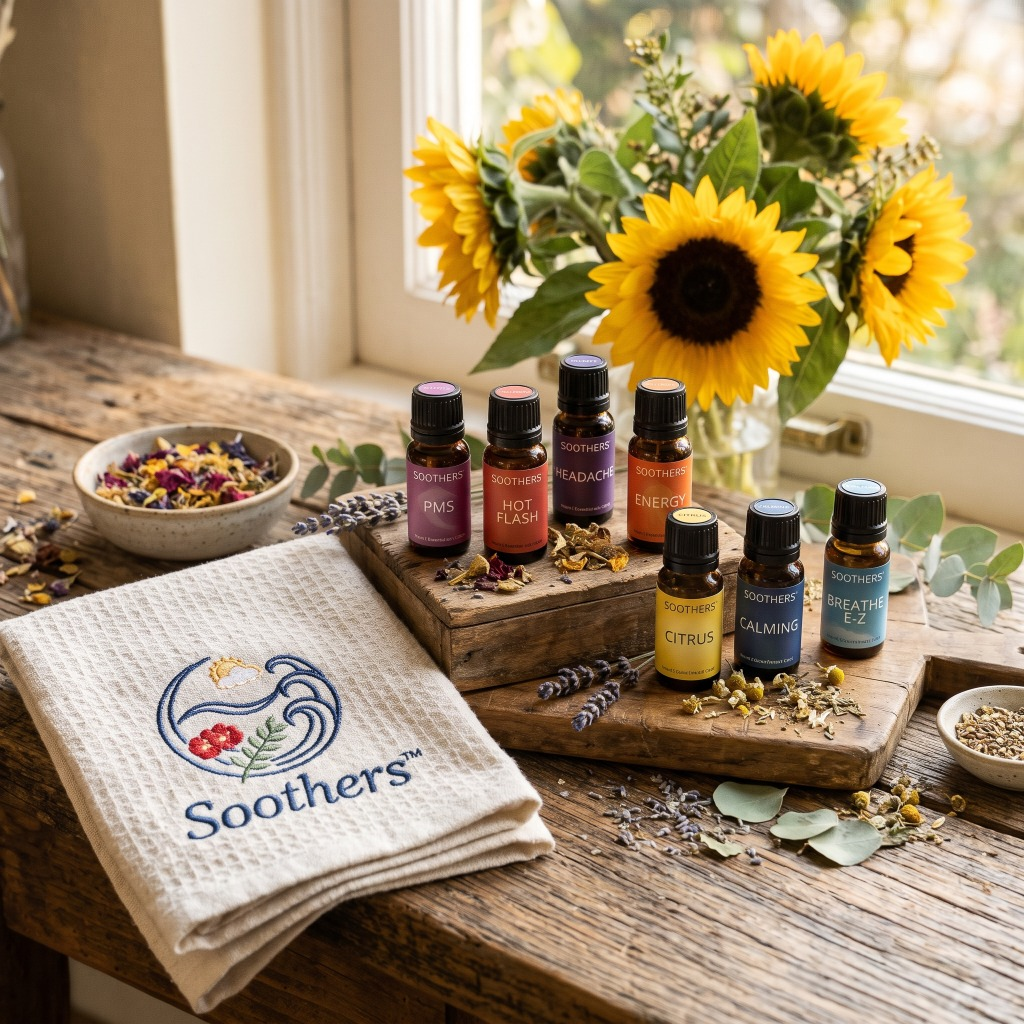
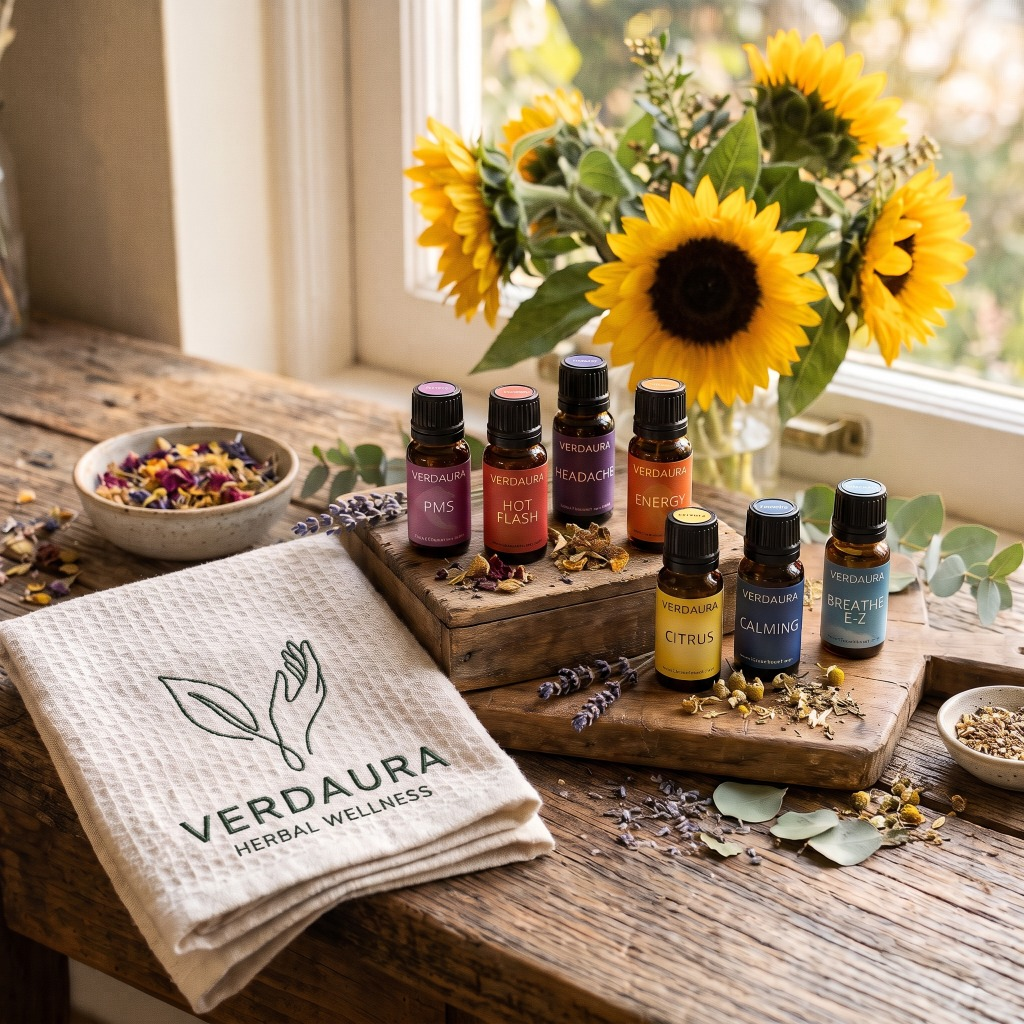
feat: update Authentic Heritage & Craftsmanship section with new founder Elena Hawthorne, origin story, and sunflower artisan image

diff --git a/src/data/verdauraData.ts b/src/data/verdauraData.ts
@@ -3,7 +3,7 @@ import { ProductItem, ServiceItem, FAQItem } from '../types/verdaura';
 export const BUSINESS_INFO = {
   name: 'Verdaura',
   tagline: 'Herbal Wellness & Botanical Remedies',
-  founder: 'Twink Conklin',
+  founder: 'Elena Hawthorne',
   location: 'Littleton, Colorado, USA',
   phone: '(303) 788-1614',
   phoneHref: 'tel:3037881614',
@@ -173,7 +173,7 @@ export const FEATURED_PRODUCTS: ProductItem[] = [
     },
     category: 'diffuser-oils',
     shortDescription: 'Deeply tranquil floral and herbal bouquet crafted to release daily stress, promote restful sleep, and create serene peace.',
-    fullDescription: 'Twink Conklin’s beloved calming formulation designed for peaceful evenings and restful sleep. Diffuse in the bedroom 30 minutes before sleep or indulge in a calming bedtime soak to quiet the mind and relax the nervous system.',
+    fullDescription: 'Elena Hawthorne’s beloved calming formulation designed for peaceful evenings and restful sleep. Diffuse in the bedroom 30 minutes before sleep or indulge in a calming bedtime soak to quiet the mind and relax the nervous system.',
     image: '/images/calming-diffuser-oil.jpg',
     badge: 'Serene Rest',
     isFeatured: true,
@@ -289,7 +289,7 @@ export const FEATURED_PRODUCTS: ProductItem[] = [
     name: 'Verdaura Herbal Oil (Concentrated Infusion)',
     category: 'herbals',
     shortDescription: 'Whole botanical herbs steeped in therapeutic carrier oils for concentrated topical nourishment.',
-    fullDescription: 'Handcrafted in Twink Conklin’s test kitchen, this concentrated herbal infusion contains whole-plant botanicals gently matured in nourishing oils. Designed to soothe tired muscles, calm surface tension, and deliver deep botanical nourishment.',
+    fullDescription: 'Handcrafted in Elena Hawthorne’s test kitchen, this concentrated herbal infusion contains whole-plant botanicals gently matured in nourishing oils. Designed to soothe tired muscles, calm surface tension, and deliver deep botanical nourishment.',
     image: '/images/herbal-oil.jpg',
     badge: 'Whole Plant Extract',
     isFeatured: false,
@@ -409,7 +409,7 @@ export const FEATURED_PRODUCTS: ProductItem[] = [
     sizes: [
       { label: 'Complete 12-Vial Discovery Box', price: '$85.00', volume: 'Full Kit' },
     ],
-    keyBenefits: ['12 pure therapeutic 1/2-dram essential oils', '2 rich carrier oils for custom recipe blending', 'Laminated recipe formulation chart by Twink Conklin', 'Sturdy portable wooden travel box'],
+    keyBenefits: ['12 pure therapeutic 1/2-dram essential oils', '2 rich carrier oils for custom recipe blending', 'Laminated recipe formulation chart by Elena Hawthorne', 'Sturdy portable wooden travel box'],
     botanicalDetails: {
       extractionMethod: 'Therapeutic Grade Distillations',
       origin: 'Littleton, Colorado Test Kitchen',
@@ -456,7 +456,7 @@ export const SERVICES: ServiceItem[] = [
     id: 'aromatherapy-consultation',
     title: 'Aromatherapy Consultation & Custom Formulation',
     price: '$65.00',
-    description: 'A comprehensive one-on-one session with certified aromatherapist Twink Conklin. We identify the essential oils that emotionally and physically support your well-being, crafting a formulation made specifically for your body chemistry.',
+    description: 'A comprehensive one-on-one session with certified aromatherapist Elena Hawthorne. We identify the essential oils that emotionally and physically support your well-being, crafting a formulation made specifically for your body chemistry.',
     highlights: ['Personalized scent and emotional profiling', 'Custom formulated blend crafted on-site', 'Safety, dilution, and daily application guidance', 'Allergies and sensitivity accommodations'],
     badge: 'Most Popular',
   },
@@ -509,7 +509,7 @@ export const SERVICES: ServiceItem[] = [
     id: 'iridology-muscle-testing',
     title: 'Iridology Analysis & Muscle Testing',
     price: 'By Appointment',
-    description: 'As a Certified Iridologist (Universal School of Medicine for Natural Living), Twink analyzes configurations and colors in the iris alongside muscle response testing to design individualized herbal and aromatherapy regimens.',
+    description: 'As a Certified Iridologist (Universal School of Medicine for Natural Living), Elena analyzes configurations and colors in the iris alongside muscle response testing to design individualized herbal and aromatherapy regimens.',
     highlights: ['Iris micro-structural analysis', 'Biocompatibility muscle testing', 'Custom botanical recommendations'],
     badge: 'Specialized Discipline',
   },
@@ -520,13 +520,13 @@ export const FAQS: FAQItem[] = [
     id: 'faq-1',
     category: 'Consultations',
     question: 'How do free consultations work?',
-    answer: 'Consultations at Verdaura are offered free of charge by appointment. We discuss your unique health objectives, preferences, and lifestyle so Twink Conklin can suggest the ideal herbal tincture, cream blend, or custom aromatherapy formulation. Please call us at (303) 788-1614 to schedule.',
+    answer: 'Consultations at Verdaura are offered free of charge by appointment. We discuss your unique health objectives, preferences, and lifestyle so Elena Hawthorne can suggest the ideal herbal tincture, cream blend, or custom aromatherapy formulation. Please call us at (303) 788-1614 to schedule.',
   },
   {
     id: 'faq-2',
     category: 'Products',
     question: 'Can you formulate a custom remedy blend for specific allergies?',
-    answer: 'Yes! Twink frequently customizes formulations for clients with specific sensitivities. For instance, if you are allergic to aloe vera or certain citrus oils, we formulate your cream or oil blend using alternative soothing botanicals like shea butter, jojoba, or green tea extracts.',
+    answer: 'Yes! Elena frequently customizes formulations for clients with specific sensitivities. For instance, if you are allergic to aloe vera or certain citrus oils, we formulate your cream or oil blend using alternative soothing botanicals like shea butter, jojoba, or green tea extracts.',
   },
   {
     id: 'faq-3',
@@ -538,7 +538,7 @@ export const FAQS: FAQItem[] = [
     id: 'faq-4',
     category: 'Products',
     question: 'Can I use Bach Flower Essences alongside an herbal tincture regimen?',
-    answer: 'Yes, they complement each other wonderfully. Dr. Edward Bach flower remedies focus on emotional equilibrium and inner balance, while herbal tinctures provide physical botanical support. Twink utilizes muscle testing during sessions to ensure both regimens work harmoniously together.',
+    answer: 'Yes, they complement each other wonderfully. Dr. Edward Bach flower remedies focus on emotional equilibrium and inner balance, while herbal tinctures provide physical botanical support. Elena utilizes muscle testing during sessions to ensure both regimens work harmoniously together.',
   },
   {
     id: 'faq-5',

diff --git a/src/components/home/PhilosophyStory.tsx b/src/components/home/PhilosophyStory.tsx
@@ -18,7 +18,7 @@ export const PhilosophyStory: React.FC = () => {
               <div className="relative rounded-3xl overflow-hidden border border-sand-300 shadow-botanical-lg bg-white">
                 <img
                   src="/images/verdaura-remedies-sunflowers.jpg"
-                  alt="Verdaura handcrafted remedy oils, embroidered brand cloth, and sunflowers in Littleton test kitchen"
+                  alt="Verdaura handcrafted botanical remedies, embroidered linen cloth, and sunflowers in Littleton artisan studio"
                   className="w-full h-[320px] sm:h-[360px] lg:h-[390px] xl:h-[430px] object-cover object-center"
                   loading="lazy"
                 />
@@ -30,10 +30,10 @@ export const PhilosophyStory: React.FC = () => {
                     </div>
                     <div>
                       <span className="font-serif text-sm sm:text-base font-bold text-forest-950 block leading-tight">
-                        Twink Conklin
+                        Elena Hawthorne
                       </span>
                       <span className="text-[10.5px] sm:text-[11px] text-olive-800 font-medium leading-tight block pt-0.5">
-                        5th-Generation Coloradan • Certified Iridologist &amp; Aromatherapist
+                        Founder &amp; Master Herbalist • Clinical Aromatherapist
                       </span>
                     </div>
                   </div>
@@ -52,31 +52,31 @@ export const PhilosophyStory: React.FC = () => {
                 Authentic Heritage &amp; Craftsmanship
               </span>
               <h2 className="font-serif font-bold text-forest-950 tracking-tight text-2xl sm:text-3xl lg:text-[28px] xl:text-[34px] leading-tight">
-                Born From Healing, Handcrafted in Littleton
+                Born From Botanical Wisdom, Handcrafted in Littleton
               </h2>
             </div>
 
             {/* Narrative Body */}
             <div className="space-y-2 text-xs sm:text-[13px] lg:text-[13.5px] xl:text-sm text-charcoal-700 leading-relaxed font-normal">
               <p>
-                Twink Conklin is a fifth-generation native of Colorado, rooted in a family tradition of care and craftsmanship. After graduating as a licensed cosmetologist in 1977 and directing salon operations for over 36 years, Twink faced a pivotal challenge in 1993 when a persistent staph infection failed conventional treatments for five years.
+                Elena Hawthorne grew up surrounded by high-altitude wildflowers along the Colorado foothills, learning the ancient language of plants from her grandmother, an herbalist and gardener. Fascinated by how earth-grown remedies could gently restore balance to the nervous system and skin, Elena pursued clinical botanical medicine and natural distillation, dedicating over two decades to studying pure plant energetics and organic whole-herb extractions.
               </p>
               <p>
-                Her breakthrough came through natural medicine. Inspired by this recovery, Twink dedicated her career to natural health disciplines starting in 1995—earning certification as an <strong>Iridologist</strong> through the Universal School of Medicine for Natural Living, and studying professional Herbology and Aromatherapy.
+                After witnessing how synthetic fragrances, petroleum bases, and mass-market additives overwhelmed delicate bodies, Elena retreated to her Littleton sunroom studio. Beside blooming sunflowers, organic lavender, and wild chamomile, she began hand-crafting small-batch botanical elixirs, testing every concentrated tincture and cold-pressed oil with uncompromising standards.
               </p>
               <p>
-                She developed every Verdaura formula right in her own test kitchen. First shared with her personal iridology clients, the results were so profound that clients urged her to make them available to everyone seeking natural remedies.
+                What began as custom comforting blends for neighbors experiencing stubborn tension, sleep difficulties, and hormonal fatigue quickly grew through word of mouth. Clients reported profound relief from the very first drop, inspiring Elena to found Verdaura: an artisan botanical sanctuary where pure plant wisdom, clean science, and gentle human care unite.
               </p>
             </div>
 
             {/* Editorial Quote Card */}
             <blockquote className="p-4 sm:p-4.5 rounded-2xl bg-white border-l-[5px] border-sunflower-500 border-y border-r border-sand-200 shadow-sm space-y-2">
               <p className="font-serif font-medium sm:font-semibold text-sm sm:text-base lg:text-[16px] text-forest-950 leading-snug tracking-tight">
-                &ldquo;Everything is formulated with natural ingredients in concentrated formulas. We test them on ourselves first. Verdaura was founded with the objective of helping those who choose the natural means to good health.&rdquo;
+                &ldquo;Nature never rushes, yet nothing is left unhealed. At Verdaura, we take the purest essences of the earth and blend them with reverent care—delivering concentrated relief that honors your body, mind, and spirit.&rdquo;
               </p>
               <footer className="text-xs sm:text-[12px] font-bold text-olive-900 uppercase tracking-wider flex items-center gap-2 pt-0.5">
                 <span className="w-5 h-0.5 bg-sunflower-500 rounded-full inline-block" />
-                <span>Twink Conklin, Founder of Verdaura</span>
+                <span>Elena Hawthorne, Founder of Verdaura</span>
               </footer>
             </blockquote>
 

diff --git a/src/pages/ProductDetailPage.tsx b/src/pages/ProductDetailPage.tsx
@@ -66,7 +66,7 @@ export const ProductDetailPage: React.FC = () => {
             Botanical Formulation Not Found
           </h1>
           <p className="text-charcoal-600 max-w-md mx-auto text-sm sm:text-base leading-relaxed">
-            The formulation you are looking for may have been archived or seasonal. Twink Conklin can hand-craft a special custom blend tailored to your wellness needs.
+            The formulation you are looking for may have been archived or seasonal. Elena Hawthorne can hand-craft a special custom blend tailored to your wellness needs.
           </p>
           <div className="flex flex-wrap items-center justify-center gap-4 pt-4">
             <Link
@@ -228,7 +228,7 @@ export const ProductDetailPage: React.FC = () => {
                 </div>
                 <div className="p-3 rounded-2xl bg-white border border-sand-200 text-center space-y-1">
                   <ShieldCheck className="w-5 h-5 text-forest-600 mx-auto" />
-                  <p className="font-semibold text-xs text-forest-950">Twink Conklin</p>
+                  <p className="font-semibold text-xs text-forest-950">Elena Hawthorne</p>
                   <p className="text-[10px] text-charcoal-500">Certified Formulation</p>
                 </div>
                 <div className="p-3 rounded-2xl bg-white border border-sand-200 text-center space-y-1">
@@ -429,7 +429,7 @@ export const ProductDetailPage: React.FC = () => {
                         : 'border-transparent text-charcoal-500 hover:text-forest-900'
                     }`}
                   >
-                    Twink Conklin Notes
+                    Elena Hawthorne Notes
                   </button>
                   <button
                     type="button"
@@ -513,7 +513,7 @@ export const ProductDetailPage: React.FC = () => {
                         TC
                       </div>
                       <div className="space-y-1 text-xs sm:text-sm text-charcoal-700 leading-relaxed">
-                        <p className="font-bold text-forest-950">Twink Conklin, Certified Aromatherapist</p>
+                        <p className="font-bold text-forest-950">Elena Hawthorne, Certified Aromatherapist</p>
                         <p>
                           &ldquo;Every bottle is blended by hand right here in Littleton. We never rush the maturation cycle of whole-plant extracts, ensuring the energetic and chemical balance remains uncompromised.&rdquo;
                         </p>
@@ -556,7 +556,7 @@ export const ProductDetailPage: React.FC = () => {
                 Require a Custom Blend for Personal Sensitivities?
               </h2>
               <p className="text-xs sm:text-sm text-sand-300/90 leading-relaxed">
-                If you have heightened allergies or require adjustments to carrier oils (e.g. substituting almond oil for coconut or jojoba), Twink Conklin hand-formulates custom blends by appointment.
+                If you have heightened allergies or require adjustments to carrier oils (e.g. substituting almond oil for coconut or jojoba), Elena Hawthorne hand-formulates custom blends by appointment.
               </p>
             </div>
 
@@ -681,7 +681,7 @@ export const ProductDetailPage: React.FC = () => {
                 <CheckCircle2 className="w-12 h-12 text-olive-600 mx-auto" />
                 <h3 className="font-serif text-2xl font-bold text-forest-950">Inquiry Received</h3>
                 <p className="text-xs sm:text-sm text-charcoal-600">
-                  Thank you! Twink Conklin will review your requested formulation for personal sensitivities and contact you within 24 business hours.
+                  Thank you! Elena Hawthorne will review your requested formulation for personal sensitivities and contact you within 24 business hours.
                 </p>
               </div>
             ) : (

diff --git a/src/pages/ProductsPage.tsx b/src/pages/ProductsPage.tsx
@@ -156,7 +156,7 @@ export const ProductsPage: React.FC = () => {
             <div className="p-12 text-center bg-white rounded-3xl border border-sand-200 my-8 space-y-4">
               <p className="font-serif text-2xl font-bold text-forest-950">No Formulations Found</p>
               <p className="text-xs sm:text-sm text-charcoal-600 max-w-md mx-auto">
-                No products match &ldquo;{searchQuery}&rdquo;. Twink Conklin can hand-craft a special custom blend tailored to your specific wellness needs.
+                No products match &ldquo;{searchQuery}&rdquo;. Elena Hawthorne can hand-craft a special custom blend tailored to your specific wellness needs.
               </p>
               <button
                 type="button"
@@ -243,7 +243,7 @@ export const ProductsPage: React.FC = () => {
                 Don&rsquo;t see the exact botanical formula you need?
               </p>
               <p className="text-xs sm:text-sm text-sand-300/90 mt-1">
-                Twink Conklin hand-crafts custom blends for personal sensitivities and allergies.
+                Elena Hawthorne hand-crafts custom blends for personal sensitivities and allergies.
               </p>
             </div>
             <a

diff --git a/src/components/home/ContactInquirySection.tsx b/src/components/home/ContactInquirySection.tsx
@@ -67,7 +67,7 @@ export const ContactInquirySection: React.FC = () => {
                 Visit or Inquire Directly
               </h2>
               <p className="text-xs sm:text-[13px] text-charcoal-700 leading-relaxed font-normal">
-                Whether you need a custom remedy formulated for sensitive skin, want to schedule an appointment, or have questions about a rare botanical oil, Twink is here to help.
+                Whether you need a custom remedy formulated for sensitive skin, want to schedule an appointment, or have questions about a rare botanical oil, Elena is here to help.
               </p>
             </div>
 
@@ -314,7 +314,7 @@ export const ContactInquirySection: React.FC = () => {
                   {/* Message */}
                   <div>
                     <label className="block text-[11px] font-semibold text-forest-950 mb-1">
-                      How Can Twink Help You? (Optional)
+                      How Can Elena Help You? (Optional)
                     </label>
                     <textarea
                       rows={2}

diff --git a/src/components/home/SalePromotionModal.tsx b/src/components/home/SalePromotionModal.tsx
@@ -303,7 +303,7 @@ export const SalePromotionModal: React.FC = () => {
                     Take <span className="text-[#965F1A] underline decoration-sunflower/60">20% Off</span> Your Handcrafted Botanical Order
                   </h3>
                   <p className="text-xs sm:text-sm text-charcoal-600 leading-relaxed">
-                    Crafted in small therapeutic batches by aromatherapist Twink Conklin. For a limited time, enjoy special pricing starting from just <strong className="text-forest-950 font-sans font-bold">$3.43</strong> across all pure diffuser &amp; bath formulations.
+                    Crafted in small therapeutic batches by aromatherapist Elena Hawthorne. For a limited time, enjoy special pricing starting from just <strong className="text-forest-950 font-sans font-bold">$3.43</strong> across all pure diffuser &amp; bath formulations.
                   </p>
                 </div>
 

diff --git a/src/components/home/FormulationsShowcase.tsx b/src/components/home/FormulationsShowcase.tsx
@@ -95,7 +95,7 @@ export const FormulationsShowcase: React.FC = () => {
               &ldquo;Verdaura can formulate a special blend just for you.&rdquo;
             </h3>
             <p className="text-xs sm:text-sm text-cream-300 leading-relaxed max-w-xl">
-              Do you have a sensitive reaction to aloe vera, specific carrier nuts, or citrus oils? Twink Conklin routinely custom-formulates individual recipes for clients with allergies or targeted wellness needs.
+              Do you have a sensitive reaction to aloe vera, specific carrier nuts, or citrus oils? Elena Hawthorne routinely custom-formulates individual recipes for clients with allergies or targeted wellness needs.
             </p>
           </div>
 

diff --git a/src/components/home/FeaturedProducts.tsx b/src/components/home/FeaturedProducts.tsx
@@ -136,7 +136,7 @@ export const FeaturedProducts: React.FC<FeaturedProductsProps> = ({ selectedCate
               Custom Blends Available in This Category
             </h3>
             <p className="text-xs text-charcoal-600 leading-relaxed">
-              We carry custom handcrafted preparations for this category upon appointment. Contact Twink directly for individual formulations.
+              We carry custom handcrafted preparations for this category upon appointment. Contact Elena directly for individual formulations.
             </p>
             <a
               href={BUSINESS_INFO.phoneHref}

diff --git a/src/components/home/FAQSection.tsx b/src/components/home/FAQSection.tsx
@@ -76,7 +76,7 @@ export const FAQSection: React.FC = () => {
               href="#contact"
               className="font-bold text-forest-900 hover:text-sunflower-700 underline decoration-sand-300 underline-offset-4"
             >
-              Reach out to Twink directly
+              Reach out to Elena directly
             </a>
           </p>
         </div>
